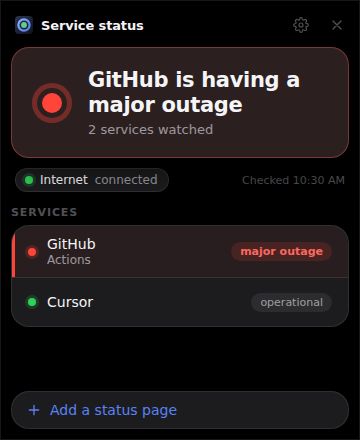
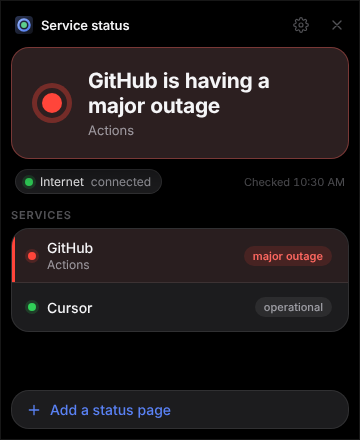
fix(ui): headline says what is wrong, not how many services are watched
With a service in trouble, the hero's second line was "5 services watched",
which is the least useful thing it could say. It now carries the same text
the row shows (the incident, else the affected components, else why the page
can't be read), followed by "N more with issues" when there are others. The
count stays for the all-clear, where it is the whole message, and as the
fallback when a problem has nothing more to say.

The line is clamped to three lines: an incident's name is vendor text and can
run long.

Claude-Session: https://claude.ai/code/session_01YHYyzBvRKzAorawyhc4XBj

diff --git a/src/lib/summary.ts b/src/lib/summary.ts
@@ -38,7 +38,28 @@ export interface Headline {
   readonly detail: string;
 }
 
-export function headline(connectivity: Connectivity, services: readonly TrayEntry[]): Headline {
+/** A service as the headline sees it: the tray's entry, plus what's wrong with it. */
+export interface HeadlineEntry extends TrayEntry {
+  /** The incident, or what's affected; `null` when there is nothing to add. */
+  readonly detail?: string | null;
+}
+
+/**
+ * The headline's second line.
+ *
+ * Healthy is the quiet case, so a count is all it has to say. A problem is
+ * what the line is for: the title names the service, and this says what is
+ * happening to it, which is worth more than how many other services exist.
+ * A service with nothing to say falls back to the count.
+ */
+function detailOf(worst: HeadlineEntry, count: string, others: number): string {
+  const more = others > 0 ? `${String(others)} more with issues` : null;
+  const what = worst.detail ?? null;
+  if (what === null || what === '') return more === null ? count : `${count} · ${more}`;
+  return more === null ? what : `${what} · ${more}`;
+}
+
+export function headline(connectivity: Connectivity, services: readonly HeadlineEntry[]): Headline {
   if (connectivity === 'offline') {
     return {
       tone: 'bad',
@@ -61,7 +82,7 @@ export function headline(connectivity: Connectivity, services: readonly TrayEntr
   }
 
   const known = services.filter(
-    (service): service is TrayEntry & { level: Level } => service.level !== null,
+    (service): service is HeadlineEntry & { level: Level } => service.level !== null,
   );
   const count = countOf(services.length);
   if (known.length === 0) return { tone: 'idle', title: 'Checking…', detail: count };
@@ -77,34 +98,21 @@ export function headline(connectivity: Connectivity, services: readonly TrayEntr
       : { tone: 'idle', title: 'Checking…', detail: count };
   }
 
-  const others = problems.length - 1;
-  const more = others > 0 ? ` · ${String(others)} more with issues` : '';
+  const detail = detailOf(worst, count, problems.length - 1);
   switch (worst.level) {
     case 'major':
     case 'partial':
       return {
         tone: toneOf(worst.level),
         title: `${worst.name} is having a ${LEVEL_LABELS[worst.level]}`,
-        detail: `${count}${more}`,
+        detail,
       };
     case 'degraded':
-      return {
-        tone: toneOf(worst.level),
-        title: `${worst.name} is degraded`,
-        detail: `${count}${more}`,
-      };
+      return { tone: toneOf(worst.level), title: `${worst.name} is degraded`, detail };
     case 'maintenance':
-      return {
-        tone: toneOf(worst.level),
-        title: `${worst.name} is under maintenance`,
-        detail: `${count}${more}`,
-      };
+      return { tone: toneOf(worst.level), title: `${worst.name} is under maintenance`, detail };
     case 'unknown':
-      return {
-        tone: toneOf(worst.level),
-        title: `Can’t read ${worst.name}’s status`,
-        detail: `${count}${more}`,
-      };
+      return { tone: toneOf(worst.level), title: `Can’t read ${worst.name}’s status`, detail };
     case 'operational':
       return { tone: 'good', title: 'All systems normal', detail: count };
   }

diff --git a/src/lib/summary.test.ts b/src/lib/summary.test.ts
@@ -31,6 +31,50 @@ describe('headline', () => {
     });
   });
 
+  it('says what is wrong instead of how many services there are', () => {
+    expect(
+      headline('online', [
+        { name: 'Cursor', level: 'degraded', detail: 'Elevated errors affecting Anthropic models' },
+        { name: 'GitHub', level: 'operational' },
+        { name: 'Phaxio', level: 'operational' },
+      ]),
+    ).toEqual({
+      tone: 'warn',
+      title: 'Cursor is degraded',
+      detail: 'Elevated errors affecting Anthropic models',
+    });
+  });
+
+  it('puts the worst service’s detail first, then counts the rest', () => {
+    expect(
+      headline('online', [
+        { name: 'Cursor', level: 'degraded', detail: 'Elevated errors' },
+        { name: 'GitHub', level: 'major', detail: 'Git operations are failing' },
+      ]).detail,
+    ).toBe('Git operations are failing · 1 more with issues');
+  });
+
+  it('says why it cannot read a service, in the service’s own words', () => {
+    expect(
+      headline('online', [{ name: 'GitHub', level: 'unknown', detail: 'connection reset' }]),
+    ).toMatchObject({ title: 'Can’t read GitHub’s status', detail: 'connection reset' });
+  });
+
+  it('falls back to the count when a problem has nothing more to say', () => {
+    expect(headline('online', [{ name: 'Cursor', level: 'degraded', detail: null }]).detail).toBe(
+      '1 service watched',
+    );
+    expect(headline('online', [{ name: 'Cursor', level: 'degraded', detail: '' }]).detail).toBe(
+      '1 service watched',
+    );
+  });
+
+  it('does not let a healthy service’s detail into the all-clear', () => {
+    expect(
+      headline('online', [{ name: 'GitHub', level: 'operational', detail: 'left over' }]).detail,
+    ).toBe('1 service watched');
+  });
+
   it('is amber, not red, for degraded and for maintenance', () => {
     expect(headline('online', [{ name: 'Cursor', level: 'degraded' }])).toMatchObject({
       tone: 'warn',

diff --git a/src/main.ts b/src/main.ts
@@ -36,11 +36,12 @@ import {
   isDue,
   rowView,
   serviceAlert,
+  serviceSubtitle,
   sortByUrgency,
   type ServiceConfig,
   type ServiceState,
 } from './lib/services.ts';
-import { headline, type Tone } from './lib/summary.ts';
+import { headline, type HeadlineEntry, type Tone } from './lib/summary.ts';
 import {
   fetchStatus,
   hidePanel,
@@ -51,7 +52,7 @@ import {
   setTrayStatus,
   showError,
 } from './lib/tauri.ts';
-import { formatTrayStatus, type TrayEntry } from './lib/tray.ts';
+import { formatTrayStatus } from './lib/tray.ts';
 import { AddForm } from './ui/add-form.ts';
 import { Popup } from './ui/popup.ts';
 import { ServiceList } from './ui/service-list.ts';
@@ -340,10 +341,11 @@ class App {
     void this.pushTrayIcon(summary.tone);
   }
 
-  private trayEntries(): TrayEntry[] {
+  private trayEntries(): HeadlineEntry[] {
     return this.services.map((service) => ({
       name: service.name,
       level: displayLevel(this.stateOf(service)),
+      detail: serviceSubtitle(this.stateOf(service), true),
     }));
   }
 

diff --git a/e2e/services.spec.ts b/e2e/services.spec.ts
@@ -64,6 +64,10 @@ test('the Cursor row shows the incident under its name', async ({ page }) => {
   await expect(row).toHaveAttribute('data-state', 'degraded');
   await expect(page.locator('#hero')).toHaveAttribute('data-tone', 'warn');
   await expect(page.locator('#hero-title')).toHaveText('Cursor is degraded');
+  // The headline says what is happening, not how many services there are.
+  await expect(page.locator('#hero-detail')).toHaveText(
+    'Investigating service degradation — Grok Bot',
+  );
   await expect(row).toContainText('Investigating service degradation — Grok Bot');
 });
 

diff --git a/src/styles.css b/src/styles.css
@@ -371,6 +371,11 @@ button {
   margin: 4px 0 0;
   color: var(--ink-dim);
   font-size: 13px;
+  /* An incident's name is vendor text and can run long; don't let it push the list off the window. */
+  display: -webkit-box;
+  -webkit-box-orient: vertical;
+  -webkit-line-clamp: 3;
+  overflow: hidden;
 }
 
 .hero-detail:empty {
